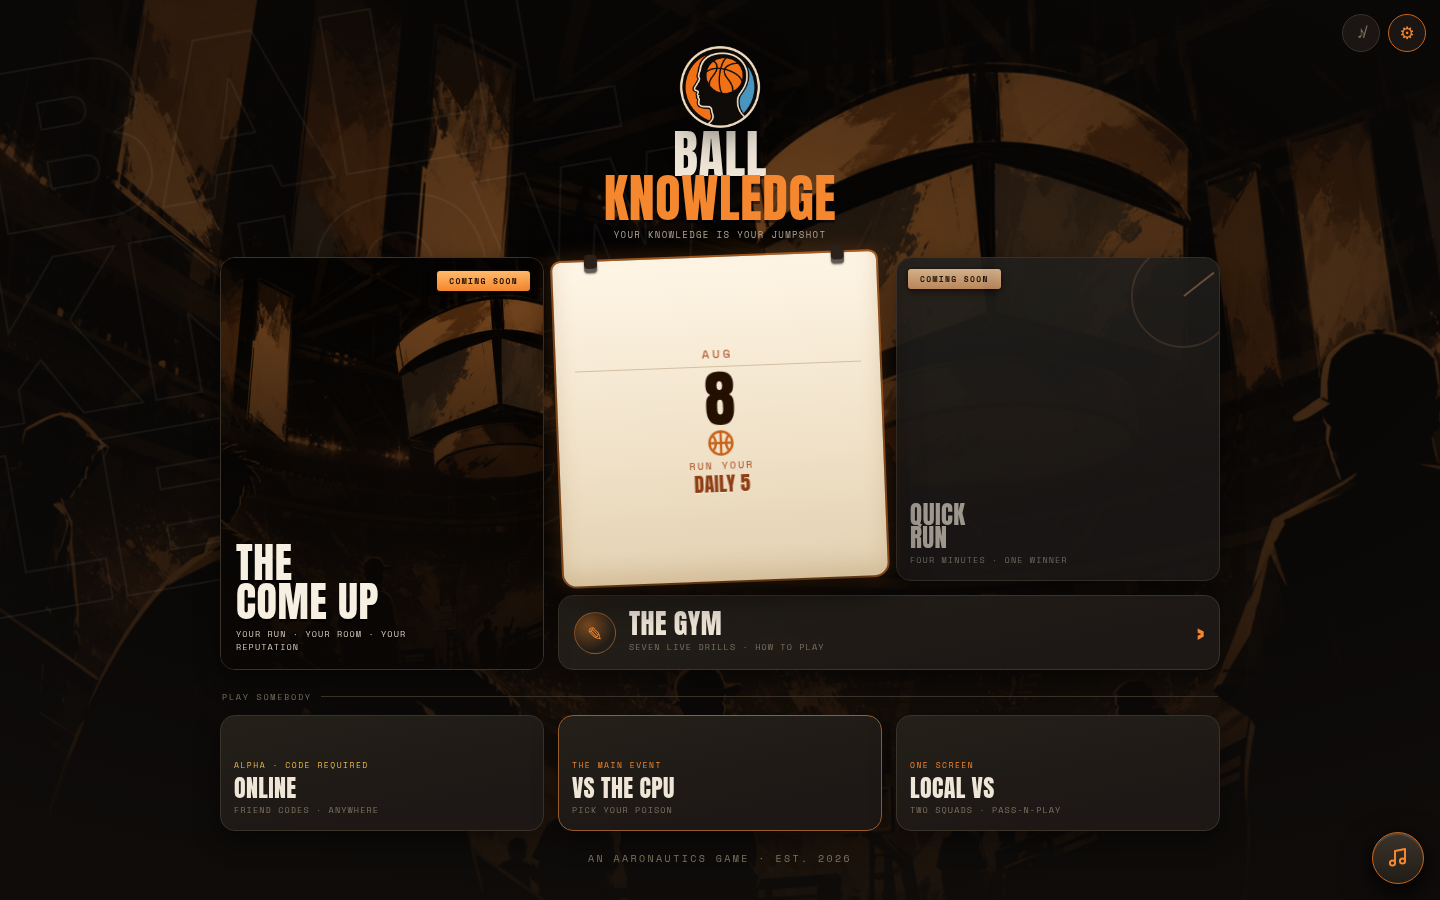
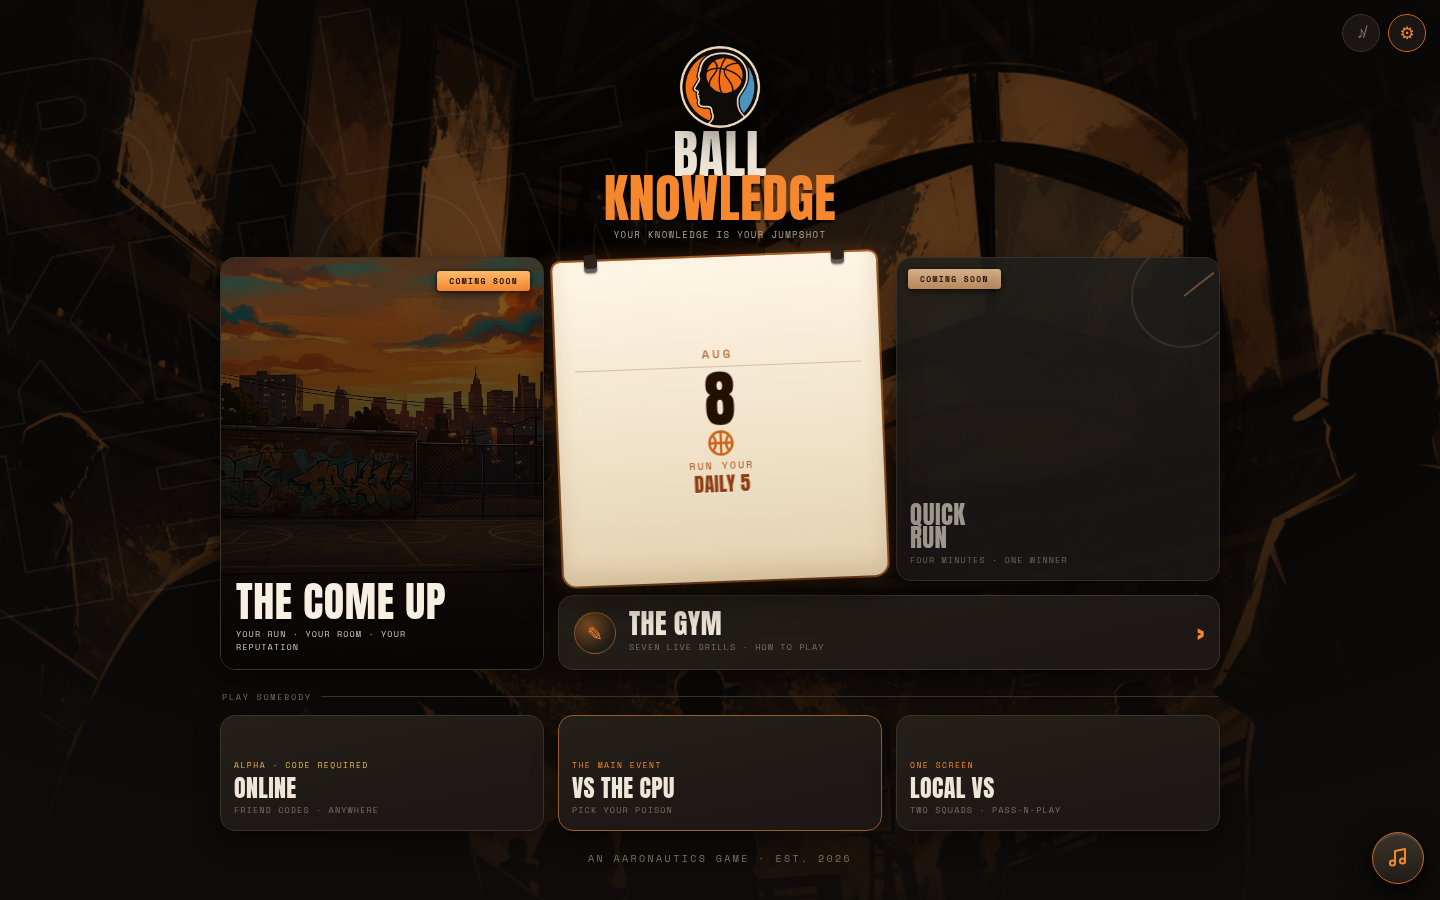
The classic menu catches up, and the career mode gets its own place
D19 · numbers gone from the old menu too, How to Play is THE GYM with the
drill count as subtext, Packs & My Squad is the career mode. Removing the five
numbers also freed the padding-left:50px that existed only to clear them, which
was 32px of dead space on every button. Quick Run on the old menu is left for
later, by Aaron's own call.

The COMING SOON ribbon moved off the label and into the corner. Centred, it lay
straight across the button name, which was survivable while that name was
"Packs & My Squad" and is not now: the screenshot read THE CO[COMING SOON]. Both
menus now say COMING SOON in the same corner.

D20 · the career hero was wearing arena-menu.jpg, the image already behind the
entire screen. A career mode is somewhere you GO, and a door onto the room you
are already standing in is not a door. It is now the blacktop court at sunset
with the skyline behind it, which was already in the repo, already licensed and
already shipping as a court skin. No new art invented and nothing to source.

Treated differently on purpose: worldbg dims hard and lays a colour tint over
everything so the arena never competes with the type. This one keeps its colour
and takes only a scrim, because here the picture IS the pitch and a tint would
flatten a sunset into orange paint. Written into the CSS so nobody "fixes" it
back.

D21 · the name is undecided, so it lives in ONE place: CAREER_NAME in game.js,
painted into every [data-career-name]. Renaming the mode is one line. It is
[…]

Changed region(s): [[0.1562, 0.28, 0.375, 0.5289], [0.1562, 0.5911, 0.3125, 0.6844], [0.1562, 0.4978, 0.1875, 0.5289]]

diff --git a/docs/play/index.html b/docs/play/index.html
@@ -881,7 +881,7 @@
   @media (min-width:900px){.menu{width:520px;gap:15px}}
   .mbtn{position:relative;font-family:var(--sans);font-size:clamp(13.5px,3.4vw,16px);font-weight:800;
     letter-spacing:.13em;text-transform:uppercase;border-radius:4px;text-align:left;
-    padding:14px 16px 14px 50px;cursor:pointer;border:0;color:#241000;
+    padding:14px 16px 14px 18px;cursor:pointer;border:0;color:#241000;
     background:linear-gradient(100deg,#ffa14e,var(--accent) 55%,var(--accent-deep));
     box-shadow:5px 5px 0 rgba(36,16,0,.85),0 10px 26px rgba(245,135,46,.22);
     transform:skewX(-8deg)}
@@ -970,13 +970,19 @@
     font-family:var(--mono);font-size:8.5px;letter-spacing:.13em;color:var(--ink-faint);
     white-space:nowrap;overflow:hidden;text-overflow:ellipsis}
   /* diagonal "coming soon" banner, centered across the row, clear of the art */
-  .mbtn.tease .cornrib{position:absolute;top:50%;left:50%;z-index:7;pointer-events:none;
-    transform:translate(-50%,-50%) skewX(8deg) rotate(-7deg)}
+  /* THE RIBBON MOVED OFF THE LABEL. Centred, it lay straight across the button
+     name, which was survivable while that name was "Packs & My Squad" and is
+     not now that it is the career mode: the screenshot read "THE CO[COMING
+     SOON]". A tease that hides the thing it is teasing is worth less than no
+     tease. Top-right corner, which is also where the new menu puts it, so the
+     two screens say COMING SOON the same way. */
+  .mbtn.tease .cornrib{position:absolute;top:8px;right:12px;z-index:7;
+    pointer-events:none;transform:skewX(8deg) rotate(-4deg)}
   .mbtn.tease .cornrib b{display:block;white-space:nowrap;font-family:var(--mono);font-weight:700;
     font-size:8.5px;letter-spacing:.18em;color:#241000;padding:4px 16px;border-radius:3px;
     background:linear-gradient(180deg,#ffbb6c,var(--accent));
     box-shadow:0 3px 9px rgba(0,0,0,.55),0 0 0 1.5px rgba(36,16,0,.35)}
-  .tzone{position:absolute;right:12px;top:50%;transform:translateY(-50%) skewX(8deg);
+  .tzone{position:absolute;right:12px;top:62%;transform:translateY(-50%) skewX(8deg);
     width:74px;height:46px;display:flex;align-items:center;justify-content:center}
   .packfan{position:relative;width:74px;height:46px}
   .pk{position:absolute;left:50%;top:50%;width:20px;height:28px;border-radius:3px;
@@ -1195,21 +1201,30 @@
     border:1.5px solid color-mix(in srgb,var(--accent) 46%,transparent);
     font-family:var(--display);font-size:19px;color:var(--accent)}
 
-  /* ---- ROW THREE: The Come Up ----
-     THE ONLY IMAGE ON THIS SCREEN IS ONE THE GAME ALREADY OWNS. A career mode
-     tease wants a place behind it, and hand-drawing a room in CSS lands at
-     blocks, the medium rule. arena-menu.jpg is already loaded, already
-     licensed, already the backdrop of this very screen, so the card is a
-     brighter WINDOW onto it rather than a different picture. Values copied
-     from #worldbg .wb-img and .wb-tint so retuning the backdrop retunes this
-     with it; if those change, change these. */
+  /* ---- ROW THREE: the career mode ----
+     A DIFFERENT PLACE, NOT A BRIGHTER WINDOW ONTO THE SAME ONE.
+     The first build reused arena-menu.jpg, the image already sitting behind
+     this whole screen. Aaron, 2026-08-08: *"let's change the background of the
+     career mode so it's not the same one as the background of the game."* He is
+     right, and the reason is stronger than variety: a career mode is somewhere
+     you GO, and a door onto the room you are already standing in is not a door.
+     Still no new art invented. `courts/blacktop-a-bgwide.jpg` is already in the
+     repo, already licensed, already used as a court skin: a playground at
+     sunset with the skyline behind it. That is the mode's whole premise in one
+     picture, and it is unmistakably not the arena.
+     TREATED DIFFERENTLY TOO, on purpose. #worldbg dims hard and lays a
+     mix-blend-mode:color tint over everything so the arena never competes with
+     the type. This one keeps its own colour and takes only a scrim, because the
+     picture IS the pitch here and a tint would flatten a sunset into orange
+     paint. That is a deliberate divergence from the shared device, not a
+     forgotten copy of it. */
   .mm-hero{min-height:clamp(132px,17.5vh,172px);display:flex;flex-direction:column;justify-content:flex-end;
     padding:16px 15px 15px;isolation:isolate}
   .mm-hero .mm-bg{position:absolute;inset:0;z-index:0;
-    background:url(assets/arena-menu.jpg) center 38%/cover no-repeat;
-    filter:brightness(.5) saturate(.42) contrast(1.02)}
-  .mm-hero .mm-bgtint{position:absolute;inset:0;z-index:1;background:var(--accent);
-    mix-blend-mode:color;opacity:.58}
+    background:url(assets/courts/blacktop-a-bgwide.jpg) center 42%/cover no-repeat;
+    filter:brightness(.72) saturate(1.04) contrast(1.04)}
+  /* no colour tint here. See the note above: the sunset is the point. */
+  .mm-hero .mm-bgtint{display:none}
   /* THE SCRIM IS FIXED DARK, and it must not be a token. It was written as
      color-mix over var(--ground), which is correct for a themed panel and wrong
      here: in whiteout --ground is a light cream, so the scrim went pale, the
@@ -1217,7 +1232,7 @@
      unreadable in one theme only. The picture behind it is brightness(.5) in
      every theme, so what covers it has to be too. */
   .mm-hero .mm-bgdark{position:absolute;inset:0;z-index:2;background:
-    linear-gradient(6deg,rgba(10,7,5,.93) 10%,rgba(10,7,5,.66) 52%,rgba(10,7,5,.34) 88%)}
+    linear-gradient(4deg,rgba(8,5,4,.95) 8%,rgba(8,5,4,.72) 46%,rgba(8,5,4,.30) 92%)}
   /* NAME THE CHILDREN, do not sweep them. The first version was
      `.mm-hero > *:not(.mm-bg):not(...)`, specificity 0,4,0, which quietly beat
      `.mm-rib{position:absolute}` and turned the COMING SOON chip into a
@@ -3079,11 +3094,11 @@
          here is positional in code: the ids carry the handlers and the only
          nth-child rules are the staircase indent and the entrance stagger,
          which follow position by design. Only the printed 01-05 had to move. -->
-    <button class="mbtn live" id="btnCpu" data-pow="BEEP BOOP!"><span class="idx">01</span><span class="lbl">Play · Vs the CPU</span><span class="soon" style="color:#7dff5a">the main event · pick your poison</span><span class="halftone"></span></button>
-    <button class="mbtn live" id="btnOnline" data-pow="LET'S GO!"><span class="idx">02</span><span class="lbl">Online · Friend Codes</span><span class="soon" style="color:#ffd06a">ALPHA · access code required</span><span class="halftone"></span></button>
-    <button class="mbtn live" id="btnPlay" data-pow="SWISH!"><span class="idx">03</span><span class="lbl">Local VS · one screen</span><span class="soon">two squads, pass-n-play</span><span class="halftone"></span></button>
-    <button class="mbtn ghost live" id="btnHow" data-pow="RULES!"><span class="idx">04</span><span class="lbl">How to Play</span><span class="halftone"></span></button>
-    <div class="mbtn locked tease packs"><span class="idx">05</span><span class="lbl">Packs &amp; My Squad</span><span class="lock"><svg class="ic"><use href="#i-lock"/></svg> Win games · rip packs to Mystic</span><div class="tzone"><div class="packfan"><div class="pk p1" style="--pkc:#9a8b73;--rot:-16deg"></div><div class="pk p2" style="--pkc:#6fbf73;--rot:-8deg"></div><div class="pk p3" style="--pkc:#58a8d6;--rot:0deg"></div><div class="pk p4" style="--pkc:#b98cff;--rot:8deg"></div><div class="pk p5" style="--pkc:#e8b84b;--rot:16deg"></div></div></div><span class="cornrib"><b>COMING SOON</b></span></div>
+    <button class="mbtn live" id="btnCpu" data-pow="BEEP BOOP!"><span class="lbl">Play · Vs the CPU</span><span class="soon" style="color:#7dff5a">the main event · pick your poison</span><span class="halftone"></span></button>
+    <button class="mbtn live" id="btnOnline" data-pow="LET'S GO!"><span class="lbl">Online · Friend Codes</span><span class="soon" style="color:#ffd06a">ALPHA · access code required</span><span class="halftone"></span></button>
+    <button class="mbtn live" id="btnPlay" data-pow="SWISH!"><span class="lbl">Local VS · one screen</span><span class="soon">two squads, pass-n-play</span><span class="halftone"></span></button>
+    <button class="mbtn ghost live" id="btnHow" data-pow="RUN IT BACK!"><span class="lbl">The Gym</span><span class="soon">seven live drills · how to play</span><span class="halftone"></span></button>
+    <div class="mbtn locked tease packs"><span class="lbl" data-career-name>The Come Up</span><span class="lock"><svg class="ic"><use href="#i-lock"/></svg> Your run · your room · your reputation</span><div class="tzone"><div class="packfan"><div class="pk p1" style="--pkc:#9a8b73;--rot:-16deg"></div><div class="pk p2" style="--pkc:#6fbf73;--rot:-8deg"></div><div class="pk p3" style="--pkc:#58a8d6;--rot:0deg"></div><div class="pk p4" style="--pkc:#b98cff;--rot:8deg"></div><div class="pk p5" style="--pkc:#e8b84b;--rot:16deg"></div></div></div><span class="cornrib"><b>COMING SOON</b></span></div>
   </div>
   <div class="proto">An Aaronautics game · est. 2026</div>
 </div>
@@ -3151,7 +3166,7 @@
       <span class="mm-bgtint" aria-hidden="true"></span>
       <span class="mm-bgdark" aria-hidden="true"></span>
       <span class="mm-rib">COMING SOON</span>
-      <span class="mm-tname">The<br>Come Up</span>
+      <span class="mm-tname" data-career-name>The Come Up</span>
       <span class="mm-tsub">your run · your room · your reputation</span>
     </div>
 

diff --git a/docs/play/game.js b/docs/play/game.js
@@ -6316,6 +6316,21 @@ g('btnSettings2').addEventListener('click',function(){openSettings('title')});
   window.addEventListener('resize',function(){if(front===1)centreOnCpu();else mark()});
 })();
 
+/* ===== THE CAREER MODE'S NAME LIVES IN ONE PLACE =====================
+   Aaron has not settled on it (he likes BUILT, THE COME UP, THE GRIND and
+   THE LEGEND OF, and asked for more), and it appears on BOTH menus. So it is a
+   constant painted into every [data-career-name], not a string typed twice.
+   Changing the mode's name is this one line. Typing it twice is how a game ends
+   up calling the same thing two different things on two screens, which is the
+   exact bug the Daily Five tier names already produced once. */
+var CAREER_NAME = 'The Come Up';
+function paintCareerName(){
+  document.querySelectorAll('[data-career-name]').forEach(function(el){
+    el.textContent = CAREER_NAME;
+  });
+}
+paintCareerName();
+
 /* the Control Room switch that flips between the two menus */
 function paintMenuSwitch(){var sw=g('setMenu');if(sw)sw.classList.toggle('on',menuNew());}
 (function(){

diff --git a/V0.md b/V0.md
@@ -647,6 +647,49 @@ faked to unblock the visuals.
   game for* long before it is read as a list of buttons, and Local VS needs two
   people in one room where Online needs two people anywhere.
 
+- [x] ~~**D19 · THE CLASSIC MENU CAUGHT UP: numbers gone, two renames.**~~
+  **FIXED.** Aaron, 2026-08-08: *"on the old main menu you have to make some
+  changes, get rid of the numbers next to each menu item, rename the how to play
+  and the packs and more to the gym and the career mode."*
+  `How to Play` is now **THE GYM** with *seven live drills · how to play*
+  underneath, and `Packs & My Squad` is the career mode. Removing the five
+  numbers also freed the `padding-left:50px` that existed only to clear them,
+  which was 32px of dead space on every button.
+  **Quick Run on the classic menu is deliberately NOT done** and he said so:
+  *"we can figure out quick run on the old menu later."*
+  One thing the screenshot caught: the COMING SOON ribbon was centred, straight
+  across the button label. Survivable while that label was "Packs & My Squad",
+  not once it is the career mode: the shot read `THE CO[COMING SOON]`. It sits
+  in the top-right corner now, where the new menu already puts it, so both
+  screens say COMING SOON the same way.
+
+- [x] ~~**D20 · The career mode wore the same wallpaper as the game.**~~
+  **FIXED.** Aaron: *"let's change the background of the career mode so it's not
+  the same one as the background of the game."*
+  The first build put `arena-menu.jpg` behind the hero, which is the image
+  already sitting behind the entire screen. His instinct is right and the reason
+  is bigger than variety: **a career mode is somewhere you GO, and a door onto
+  the room you are already standing in is not a door.**
+  It is now `courts/blacktop-a-bgwide.jpg`, a playground at sunset with a city
+  skyline behind it. **Still no new art invented** and nothing to source: that
+  file is already in the repo, already licensed, already shipping as a court
+  skin. It is also the mode's premise in one picture.
+  **Treated differently on purpose, which is the part worth writing down.**
+  `#worldbg` dims hard and lays a `mix-blend-mode:color` tint over everything so
+  the arena never competes with the type. This one keeps its own colour and
+  takes only a scrim, because here the picture IS the pitch and a tint would
+  flatten a sunset into orange paint. A deliberate divergence from the shared
+  device, noted in the CSS so the next person does not "fix" it back.
+
+- [ ] **D21 · THE CAREER MODE STILL HAS NO NAME.** Aaron likes **BUILT**, **THE
+  COME UP**, **THE GRIND** and **THE LEGEND OF**, and asked for more words
+  around the path, the journey, making a name, becoming a legend.
+  Until he rules, the name is `CAREER_NAME` in `game.js` and every surface reads
+  it from `[data-career-name]`. **Changing the mode's name is one line.** It is
+  written this way because the name appears on both menus, and the same thing
+  called two things on two screens is a bug this project has already shipped
+  once with the Daily Five tier names.
+
 #### And one repeat, which is the interesting one
 
 - [ ] **D8 · THE STAMP STILL DOES NOT READ AS TAPPABLE.** Aaron: *"the daily 5
